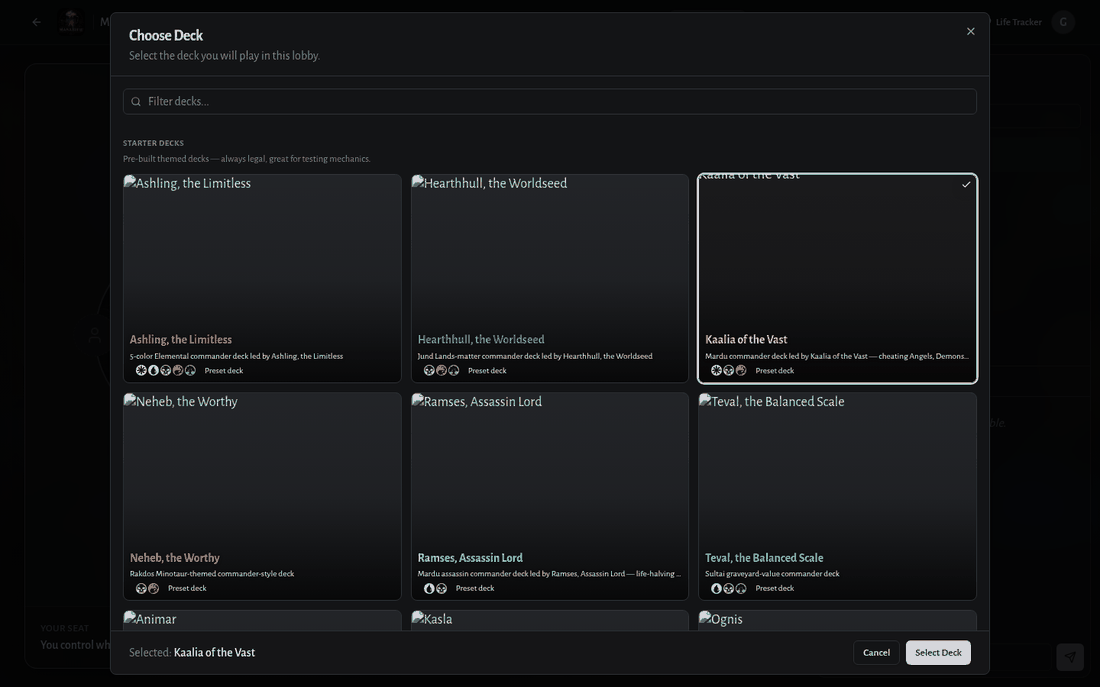
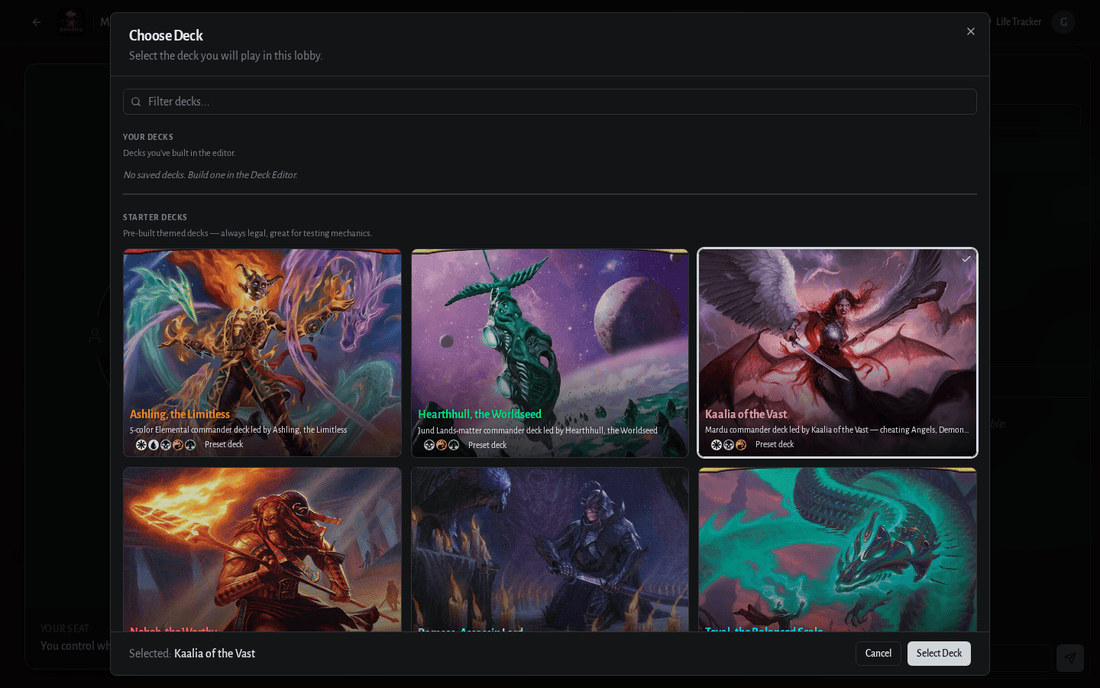
docs(manabrew): card art in the guide's screenshots, and the hub it needs
The ManaBrew web client looks every card up on Scryfall through its hub's
/api/scryfall/ route; `yarn web` sends that to api.manabrew.app, which
answers the route with 404, so every card drew as a blank frame with its
name. gorge's wire was not the cause: it sends each card's name, and
set and collector number when it knows the printing, which is all the
client's lookup needs.

The guide gains a step that runs manabrew-hub locally and points the
client at it with VITE_HUB_API_URL, and a troubleshooting entry. The
eight screenshots are retaken with art from a fresh four-seat game,
and a time lapse of that game is added.

diff --git a/docs/site/guide/manabrew.md b/docs/site/guide/manabrew.md
@@ -8,15 +8,13 @@ you play, the dirac engine, and what to do when something goes wrong.
 The commands, logs and screenshots are from 2026-11-19: ManaBrew v3.42.7 (commit `0193f13`), its web
 client in headless Chrome, and gorge with the ManaBrew wire changes of
 [#1960](https://github.com/adams-shaun/gorge/pull/1960). A gorge from before #1960 refuses every deck
-the client sends and sends prompts the client cannot read. The card images are missing from the
-screenshots because the browser that took them was not allowed to reach Scryfall, where ManaBrew
-loads art from.
+the client sends and sends prompts the client cannot read.
 
 ## How the pieces fit
 
 ManaBrew has no setting for a remote engine. Its engine runs either in the browser or on a room's
 host, and every seat in a multiplayer room talks to that host through ManaBrew's relay. So a gorge
-game needs four processes:
+game needs four processes, and a fifth for card art:
 
 | Process | What it does | Where it comes from |
 |---|---|---|
@@ -24,14 +22,15 @@ game needs four processes:
 | `manabrew-server` | ManaBrew's relay: the lobby, rooms, and the WebSocket every client connects to | ManaBrew |
 | `tools/manabrew-bridge/bridge.mjs` | Hosts one relay room; when the game starts it creates it on `gorged` and carries each seat's messages between the relay and `gorged` | This repository |
 | The ManaBrew web client | What you play in | ManaBrew |
+| `manabrew-hub` | ManaBrew's account and deck service; the web client looks up every card's art through it | ManaBrew |
 
 The bridge is original code under gorge's licence. It speaks ManaBrew's published relay and seat
 protocols and contains no ManaBrew source; it rewrites nothing inside a message.
 [Its README](https://github.com/adams-shaun/gorge/tree/main/tools/manabrew-bridge) lists every setting.
 ManaBrew itself is AGPL-3.0 and is not part of gorge: you build it from its own repository.
 
-The ports on this page are `gorged` on 8081, the relay on its default 9443 and the web client on its
-default 1420. Any free ports work; keep the three settings that name them in step.
+The ports on this page are `gorged` on 8081, the relay on its default 9443, the hub on 8090 and the
+web client on its default 1420. Any free ports work; keep the settings that name them in step.
 
 ## 1. Prerequisites
 
@@ -109,28 +108,57 @@ RELAY=ws://127.0.0.1:9443 RELAY_PASSWORD=forge GORGE=http://127.0.0.1:8081 \
 The room stays open; after each game it goes back to the lobby for the next one. One bridge hosts one
 room; start another with a different `ROOM_NAME` for a second table.
 
-## 5. Start the web client
+## 5. Start ManaBrew's hub, for card art
+
+The web client has no card images of its own. For each card gorge sends it asks Scryfall for the
+card by name, or by set and collector number when gorge knows the printing, and a client started with `yarn web` sends that request through ManaBrew's hub (its
+`/api/scryfall/` route), which is `https://api.manabrew.app` unless you say otherwise. On
+2026-11-19 the public hub answered that route with 404, so a client pointed at it shows a blank
+frame with the card's name for every card on the table. Run the hub yourself, from the ManaBrew
+checkout:
+
+```sh
+cargo build --release -p manabrew-hub
+mkdir -p /tmp/manabrew-hub
+HUB_HOST=127.0.0.1 HUB_PORT=8090 HUB_DB_PATH=/tmp/manabrew-hub/hub.db \
+  HUB_PRESET_DECKS_DIR=public/preset_decks ./target/release/manabrew-hub
+```
+
+```text
+manabrew-hub listening addr=127.0.0.1:8090 db=/tmp/manabrew-hub/hub.db
+refreshed Scryfall bulk index path=/tmp/manabrew-hub/scryfall-default-cards.jsonl.gz printings=120210
+```
+
+The hub downloads Scryfall's bulk card list (about 80 MB) when it starts, and passes the client's
+lookups on to `api.scryfall.com`. The images themselves come straight from `cards.scryfall.io`, so the
+browser needs to reach that too. Skip this step and the game still plays; you just play it without
+art.
+
+## 6. Start the web client
 
 From the ManaBrew checkout:
 
 ```sh
-VITE_RELAY_HOST=127.0.0.1 VITE_RELAY_PORT=9443 VITE_RELAY_PASSWORD=forge yarn web
+VITE_RELAY_HOST=127.0.0.1 VITE_RELAY_PORT=9443 VITE_RELAY_PASSWORD=forge \
+  VITE_HUB_API_URL=http://127.0.0.1:8090 yarn web
 ```
 
 `yarn web` generates ManaBrew's protocol types, builds its WebAssembly engine if it is out of date,
 and serves the client at <http://localhost:1420/>. The `VITE_RELAY_*` variables make your relay the
-client's default instead of ManaBrew's public one.
+client's default instead of ManaBrew's public one, and `VITE_HUB_API_URL` sends the client's hub
+requests, card lookups among them, to your hub.
 
 !!! note "Not verified here"
     The full `yarn web` also builds ManaBrew's in-browser card archive from the Forge card data in its
     `forge` submodule, which this checkout didn't have. The screenshots come from the same client
     started as `yarn gen:types`, then `wasm-pack build --target web --out-dir src/wasm --out-name wasm
-    manabrew-rs/crates/wasm` (the bots' engine, without the card archive), then `npx vite`. A table
-    hosted by the bridge needs no card archive: gorge runs the rules. ManaBrew's offline games do.
+    manabrew-rs/crates/wasm` (the bots' engine, without the card archive), then `npx vite` with the
+    same `VITE_*` variables. A table hosted by the bridge needs no card archive: gorge runs the
+    rules. ManaBrew's offline games do.
 
 Open <http://localhost:1420/>, accept the terms, and pick a nickname. The other players see it.
 
-## 6. Sit down, choose decks, start
+## 7. Sit down, choose decks, start
 
 Open **Multiplayer**. The bridge's room is listed under *Tables from other players*:
 
@@ -146,7 +174,7 @@ are ManaBrew's own precons:
 
 <figure markdown>
 ![The Choose Deck dialog with ManaBrew's starter decks: Ashling, Hearthhull, Kaalia of the Vast (selected), Neheb, Ramses and Teval, each a preset Commander deck, and the Select Deck button](img/manabrew/deck-choice.png)
-<figcaption>Choosing a deck. The art is missing only because the screenshot's browser couldn't reach Scryfall.</figcaption>
+<figcaption>Choosing a deck.</figcaption>
 </figure>
 
 To fill the other seats with ManaBrew's bots, press **Add a bot** three times and pick a deck for
@@ -162,10 +190,10 @@ ready, press **Start game**:
 The bridge logs the start, and the game it made on `gorged`:
 
 ```text
-[bridge +226.5s] game started: gorge-player@5805, gorge-player-bot-mwnai9xy, gorge-player-bot-mwnaihz9, gorge-player-bot-mwnaimd4
-[bridge +226.5s] gorged refused the seats' decks (400): {"code":"bad_request","message":"seat 0 deck \"Kaalia of the Vast\": cards the engine cannot play yet: Master of Cruelties (needs kw:CARDNAME can only attack alone.)"}
-[bridge +226.5s] playing gorge's own pool decks instead
-[bridge +226.5s] gorged table g2 match 1
+[bridge +292.6s] game started: gorge-player@1313, gorge-player-bot-mwncrfhd, gorge-player-bot-mwncrnrx, gorge-player-bot-mwncrscq
+[bridge +292.6s] gorged refused the seats' decks (400): {"code":"bad_request","message":"seat 0 deck \"Kaalia of the Vast\": cards the engine cannot play yet: Master of Cruelties (needs kw:CARDNAME can only attack alone.)"}
+[bridge +292.6s] playing gorge's own pool decks instead
+[bridge +292.6s] gorged table g1 match 1
 ```
 
 gorge plays every seat's own deck when it can play every card in all of them. When one deck holds a
@@ -173,7 +201,7 @@ card gorge doesn't support yet, as Kaalia's did here, `gorged` refuses the decks
 gorge's own pool Commander decks to every seat instead, so the game still starts. Set `POOL_FALLBACK=0`
 on the bridge to refuse the game instead. [Coverage](../support/sets.md) says what gorge supports.
 
-## 7. Play
+## 8. Play
 
 The game opens on the mulligan decision. The board is ManaBrew's own: your side at the bottom, one
 opponent's board at the top, and the other players as portraits you can switch to.
@@ -188,21 +216,21 @@ panel at the bottom right asks you to pay. **Auto** pays from your untapped sour
 the lands yourself:
 
 <figure markdown>
-![Casting Orb of Dragonkind: the card enlarged on the right with an arrow to its place on the battlefield, and the PAY MANA panel reading Cast Orb of Dragonkind for 1 R, with Auto and Cancel buttons](img/manabrew/cast.png)
+![Casting Sol Ring: the card enlarged on the right with an arrow to its place on the battlefield, a Plains already in play, the rest of the hand along the bottom, and the PAY MANA panel reading Cast Sol Ring for 1, with Auto and Cancel buttons](img/manabrew/cast.png)
 <figcaption>Paying for a spell.</figcaption>
 </figure>
 
-Choices open as a dialog. This one is Spinerock Knoll's hideaway, asking which of four cards to exile:
+Choices open as a dialog. This one is Wood Elves' search of the library for a Forest card:
 
 <figure markdown>
-![A dialog titled Choose a card to exile with Hideaway, Choose 1 to 1, offering Mountain, Shivan Devastator, Dragon's Hoard and Dragonhawk, Fate's Tempest, with a Confirm button](img/manabrew/choice.png)
+![A dialog titled Search a library: choose up to 1 card(s), Choose 0 to 1, offering a row of Forests and Cinder Glade, with a Skip button](img/manabrew/choice.png)
 <figcaption>A choice prompt, sent by gorge and drawn by ManaBrew.</figcaption>
 </figure>
 
-Mid-game, with three opponents' bots attacking:
+Mid-game, with an opponent's bot attacking; the panel asks for blockers:
 
 <figure markdown>
-![A four-seat game in combat: Player 2's two attacking creatures in a red band across the middle, Begin Combat and Attackers highlighted on the phase track, the player at 35 life, and the panel reading Player 2 attacks You](img/manabrew/board.png)
+![A four-seat game in combat: Player 2's four attacking creatures in a red band across the middle, Blockers highlighted on the phase track, the player's creatures, Sol Ring and lands below, the player at 21 life, and the DECLARE BLOCKERS panel reading Player 2 attacks You, Through 6](img/manabrew/board.png)
 <figcaption>Player 2 attacks.</figcaption>
 </figure>
 
@@ -228,11 +256,20 @@ What is different from a ManaBrew-hosted game:
   room is ready for the next game.
 
 <figure markdown>
-![ManaBrew's game-over screen: You Lose!, Final life: You 40, Player 2 -5, Player 3 -6, Player 4 34, Turn 27, Returning to menu, and a Return to Menu button](img/manabrew/gameover.png)
-<figcaption>Game over on turn 27, seen from a seat that had conceded.</figcaption>
+![ManaBrew's game-over screen: You Lose!, Final life: You 13, Player 2 -4, Player 3 -15, Player 4 34, Turn 43, Returning to menu, and a Return to Menu button](img/manabrew/gameover.png)
+<figcaption>Game over on turn 43, seen from a seat that had conceded.</figcaption>
 </figure>
 
-## 8. Optional: dirac
+The whole game behind these screenshots, from the lobby to the game-over screen, one frame about
+every ten seconds of play. The player passed every turn after the first few and conceded at 13 life;
+the three bots played it out:
+
+<figure markdown>
+![A time lapse of the four-seat game: the lobby, the deck dialog and the table room, the mulligan, casting Sol Ring, then the board filling up turn by turn as the bots attack each other and the player, ending on the game-over screen](img/manabrew/timelapse.gif)
+<figcaption>Turns 1 to 43 in about 40 seconds.</figcaption>
+</figure>
+
+## 9. Optional: dirac
 
 `gorged -engine dirac` runs the [dirac engine](dirac.md) behind the same wire. Through the server,
 dirac seats two players only today, and it plays only the decks it checked at startup, so every
@@ -284,7 +321,12 @@ printing one line per kind of frame that fails and the path to the failing field
 AGPL crate, so it is not in this repository; any program that deserialises `state` frames as
 `manabrew_protocol::transport::StateUpdate` and `prompt` frames as `AgentPrompt` does the same check.
 
-## 9. Troubleshooting
+## 10. Troubleshooting
+
+**Cards show only their names, on blank frames.** The client could not look the cards up. Check that
+the hub of step 5 is running and that the client was started with `VITE_HUB_API_URL` pointing at it;
+the browser's console shows the failing `/hub-api/api/scryfall/` requests. ManaBrew's public hub
+answers them with 404.
 
 **The room isn't in the lobby.** Check the client's relay: the Players list shows who is connected, so
 if you are alone and the bridge's room is missing, the client is probably on ManaBrew's public relay.
@@ -310,7 +352,7 @@ the frames with `TRANSCRIPT`: the prompt gorge sent is a `gorge->bridge[player-N
 `"kind":"prompt"`. If gorge sent it and the client shows nothing, the client could not read it; that is
 a wire bug to file against gorge with the frame attached.
 
-**A resolved ability stays in the stack panel.** In the run behind this page the client kept showing
+**A resolved ability stays in the stack panel.** In an earlier run for this page the client kept showing
 Orb of Dragonkind's ability after it had resolved, while gorge's `gameView.stack` was empty. Its cause
 was not tracked down; it doesn't affect play.
 
